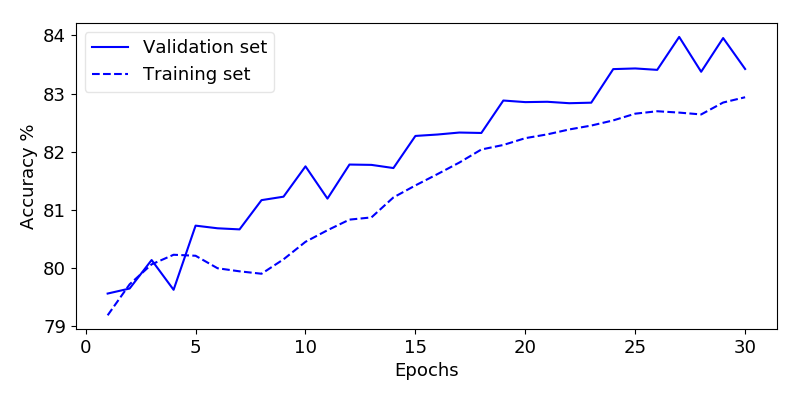
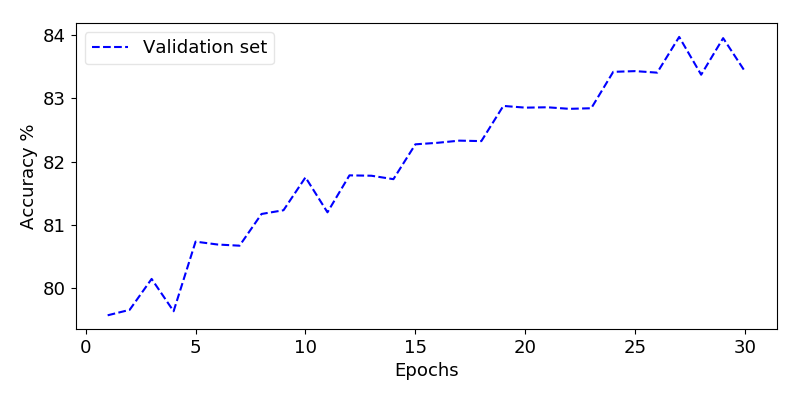
Final graph

diff --git a/make_graph.py b/make_graph.py
@@ -33,8 +33,7 @@ ls_10=np.linspace(1,30,num=30)
 fig=plt.figure(figsize=(8,4))
 plt.rcParams.update({"font.size": 13})
 ax=plt.subplot(111)
-ax.plot(ls_10,dicts['final_valid'],'b',label='Validation set')
-ax.plot(ls_10,dicts['final_train'],'b--',label='Training set')
+ax.plot(ls_10,dicts['final_valid'],'b--',label='Validation set')
 ax.legend(fancybox=True, framealpha=.5)
 
 plt.xlabel("Epochs")
